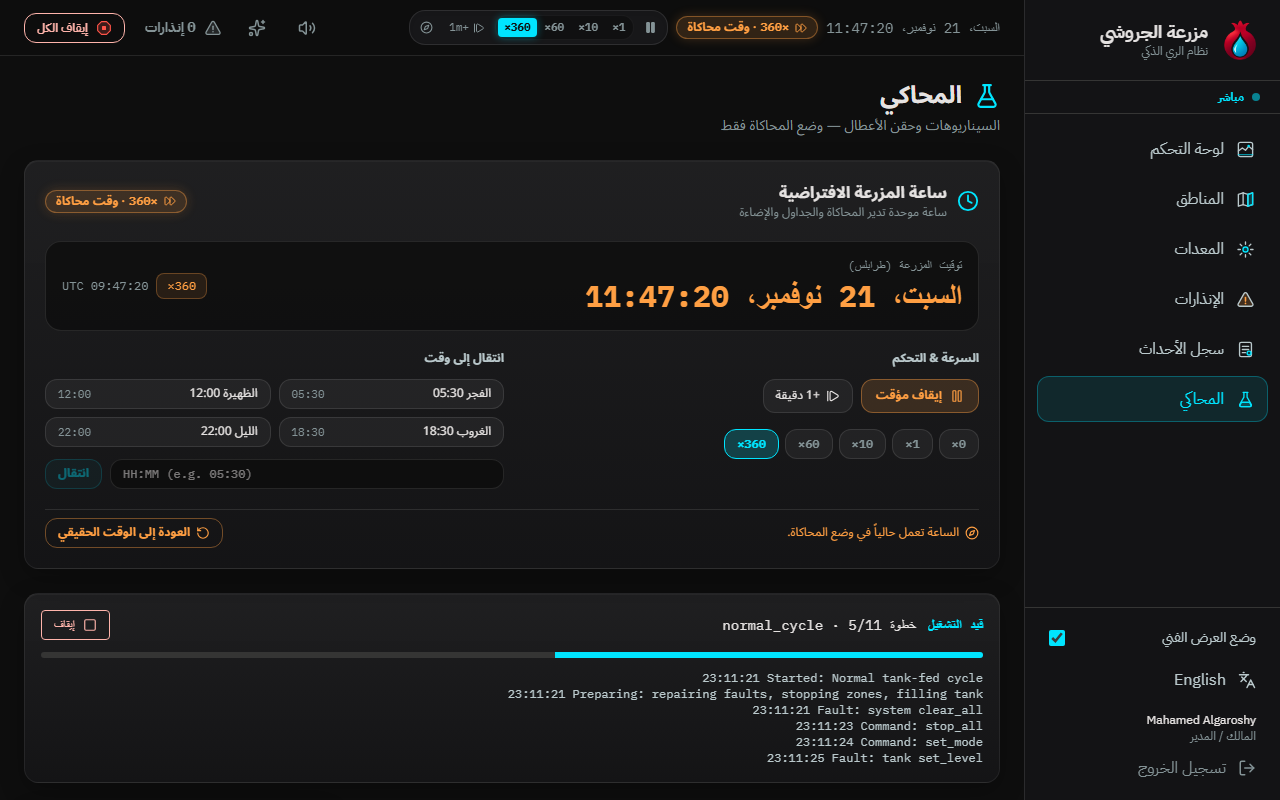
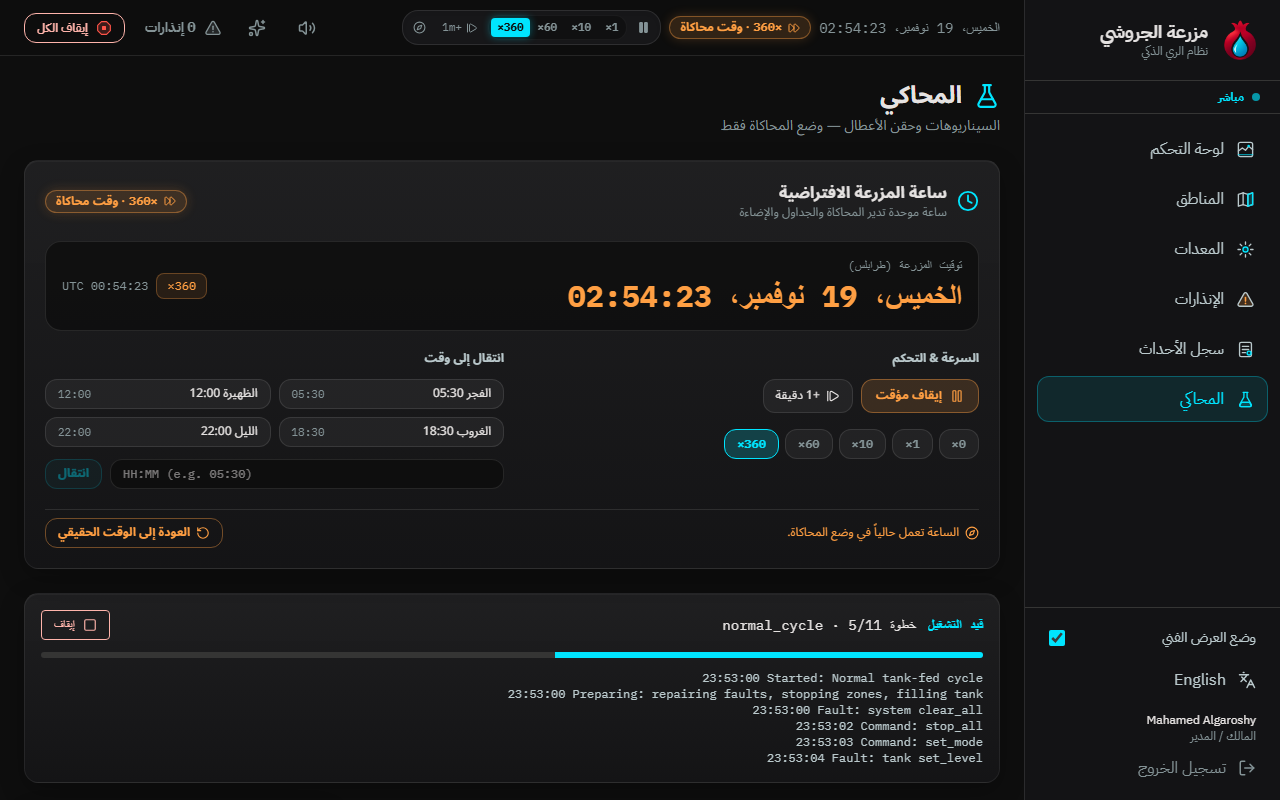
fix(sim-time): resolve service auth, high-speed jumps, date parsing, and guard test gaps

diff --git a/apps/web/src/lib/clock.ts b/apps/web/src/lib/clock.ts
@@ -48,7 +48,10 @@ export const useClockStore = create<ClockStore>((set, get) => ({
     const paused = data.clock_paused !== undefined ? Boolean(data.clock_paused) : Boolean(data.paused);
     let simMs = get().anchorSimMs;
     if (data.farm_now) {
-      const s = data.farm_now.endsWith('Z') ? data.farm_now : `${data.farm_now}Z`;
+      const s =
+        data.farm_now.includes('Z') || /[+-]\d{2}(:\d{2})?$/.test(data.farm_now)
+          ? data.farm_now
+          : `${data.farm_now}Z`;
       const parsed = Date.parse(s);
       if (!Number.isNaN(parsed)) simMs = parsed;
     }

diff --git a/apps/web/src/lib/clock.test.ts b/apps/web/src/lib/clock.test.ts
@@ -32,6 +32,12 @@ describe('virtual farm clock', () => {
     expect(state.paused).toBe(false);
     expect(state.isSimulated).toBe(true);
     expect(new Date(state.anchorSimMs).toISOString()).toBe('2026-11-19T12:00:00.000Z');
+
+    // Test with +00:00 timezone offset (FastAPI output)
+    useClockStore.getState().sync({
+      farm_now: '2026-11-19T14:30:00+00:00',
+    });
+    expect(new Date(useClockStore.getState().anchorSimMs).toISOString()).toBe('2026-11-19T14:30:00.000Z');
   });
 
   it('detects isSimulated if paused or speed != 1', () => {

diff --git a/apps/web/src/store/farm.ts b/apps/web/src/store/farm.ts
@@ -65,6 +65,9 @@ export const useFarmStore = create<FarmStore>((set, get) => {
         state.active_alarms.forEach((al) => seenAlarms.add(al.id));
         primed = true;
       }
+      if (state.farm_now) {
+        useClockStore.getState().sync(state);
+      }
       set({ state, link: get().link === 'live' ? 'live' : 'polling' });
     } catch {
       set({ link: 'offline' });

diff --git a/packages/contracts/src/types.ts b/packages/contracts/src/types.ts
@@ -368,6 +368,7 @@ export interface FarmClockState {
   paused: boolean;
   farm_now: string;
   real_now: string;
+  action?: string;
 }
 
 export interface ClockUpdateRequest {

diff --git a/apps/api/app/routers/sim.py b/apps/api/app/routers/sim.py
@@ -6,7 +6,7 @@ from sqlalchemy.ext.asyncio import AsyncSession
 from app.config import settings
 from app.core.clock import clock
 from app.database import get_db
-from app.deps import Actor, get_actor, require_admin
+from app.deps import Actor, get_actor, require_admin, require_admin_or_service
 from app.schemas.clock import ClockResponse, ClockUpdateRequest
 from app.schemas.command import CommandCreate
 from app.services.commands import _supersede_starts
@@ -30,13 +30,15 @@ async def get_clock(_: Actor = Depends(get_actor)):
 @router.post("/clock", response_model=ClockResponse, dependencies=[Depends(_simulation_only)])
 async def update_clock(
     body: ClockUpdateRequest,
-    actor: Actor = Depends(require_admin),
+    actor: Actor = Depends(require_admin_or_service),
     db: AsyncSession = Depends(get_db),
 ):
     if clock.is_locked_real:
         raise HTTPException(409, "Clock is locked to real time in PLC controller mode")
 
+    action = "speed"
     if body.real is True:
+        action = "reset"
         if not body.confirm:
             raise HTTPException(
                 400,
@@ -56,6 +58,7 @@ async def update_clock(
             actor_id=actor.actor_id,
         )
     elif body.speed is not None:
+        action = "speed"
         old_speed = clock.speed
         clock.set_speed(body.speed)
         await clock.save(db)
@@ -70,6 +73,7 @@ async def update_clock(
         )
     elif body.pause is not None:
         if body.pause:
+            action = "pause"
             clock.pause()
             await clock.save(db)
             await log_event(
@@ -81,6 +85,7 @@ async def update_clock(
                 actor_id=actor.actor_id,
             )
         else:
+            action = "resume"
             clock.resume()
             await clock.save(db)
             await log_event(
@@ -93,6 +98,7 @@ async def update_clock(
                 payload={"speed": clock.speed},
             )
     elif body.step_min is not None:
+        action = "step"
         clock.step(body.step_min)
         await clock.save(db)
         await log_event(
@@ -105,6 +111,7 @@ async def update_clock(
             payload={"step_min": body.step_min, "farm_now": clock.farm_now().isoformat()},
         )
     elif body.jump_to is not None:
+        action = "jump"
         await _supersede_starts(db, CommandCreate(command_type="stop_all", target_type="system"))
         try:
             prev_sim, next_sim = clock.jump_to(body.jump_to)
@@ -127,7 +134,7 @@ async def update_clock(
     else:
         raise HTTPException(422, "No valid clock action supplied in request body")
 
-    res = ClockResponse(**clock.as_dict())
+    res = ClockResponse(**clock.as_dict(), action=action)
     await manager.broadcast("clock.changed", res)
     return res
 

diff --git a/apps/simulator/src/engine.py b/apps/simulator/src/engine.py
@@ -16,6 +16,7 @@ import json
 import math
 import random
 from datetime import timedelta
+from zoneinfo import ZoneInfo
 
 from .faults import FaultInjector
 from .state import AlarmCondition, FarmSimulationState, SimZoneState, utcnow
@@ -470,7 +471,9 @@ class SimulatorEngine:
 
     def _step_environment(self, dt: float) -> None:
         s = self.state
-        local_hour = (self.sim_time.hour + TRIPOLI_UTC_OFFSET_H + self.sim_time.minute / 60) % 24
+        tz = ZoneInfo("Africa/Tripoli")
+        local = self.sim_time.astimezone(tz)
+        local_hour = (local.hour + local.minute / 60.0 + local.second / 3600.0) % 24
         daylight = max(0.0, math.sin(math.pi * (local_hour - 6) / 12))
         dry_rate = 0.3 + 0.9 * daylight  # %/h evapotranspiration
         for zid, z in s.zones.items():
@@ -506,14 +509,22 @@ class SimulatorEngine:
     def jump(self, new_sim_time) -> None:
         """Monotonic jump: stop running zones, apply closed-form environment, log."""
         for zid in list(self.state.zones):
-            if self.state.zones[zid].state in ACTIVE_STATES:
-                self.abort_zone(zid, "clock.jumped", "Zone stopped due to virtual clock jump")
-                self.state.zones[zid].state = "off"
-                self.state.zones[zid].flow_m3h = 0.0
-                self.state.zones[zid].pressure_bar = 0.0
+            z = self.state.zones[zid]
+            if z.state in ACTIVE_STATES:
+                self._finish_cmd(zid, "failed", "Stopped due to virtual clock jump")
+                z.state = "off"
+                z.flow_m3h = 0.0
+                z.pressure_bar = 0.0
+                z.runtime_sec = 0
+                v = self.state.valve_for_zone(zid)
+                if v:
+                    v.status = "closed"
+                    v.last_command = "close"
         for pump in self.state.pumps.values():
             pump.state = "off"
             pump.run_fb = False
+        self.state.system.main_flow_m3h = 0.0
+        self.state.system.main_pressure_bar = 0.0
 
         delta_s = (new_sim_time - self.sim_time).total_seconds()
         if delta_s > 0:

diff --git a/scripts/test_live_check.py b/scripts/test_live_check.py
@@ -87,6 +87,11 @@ with sync_playwright() as p:
     page.goto("http://localhost:5173/")
     page.wait_for_load_state("networkidle")
     page.wait_for_timeout(2500)
+    # Check water tab
+    water_tab = page.locator('button:has-text("مياه اليوم"), button:has-text("Water today")').first
+    if water_tab.is_visible():
+        water_tab.click()
+        page.wait_for_timeout(1000)
     page.screenshot(path=str(SCREENSHOT_DIR / "05_dashboard_at_360x.png"))
     print("Dashboard rendered during high-speed simulation.")
 
@@ -109,6 +114,8 @@ with sync_playwright() as p:
     dawn_btn.click()
     page.wait_for_timeout(2000)
     page.screenshot(path=str(SCREENSHOT_DIR / "07_jumped_to_0530.png"))
+    clock_text = page.locator('span:has-text("05:30")').count()
+    assert clock_text > 0, "Clock must display 05:30 after jump"
     print("Jumped to 05:30. Verified clock display.")
 
     # Check Map at 05:30 Dawn
@@ -136,6 +143,9 @@ with sync_playwright() as p:
     confirm_btn.click()
     page.wait_for_timeout(2500)
     page.screenshot(path=str(SCREENSHOT_DIR / "10_back_to_real_time.png"))
+    # In real time at 1x, the amber simulated time badge must disappear
+    badge = page.locator('span:has-text("360×")')
+    assert badge.count() == 0, "SIMULATED TIME badge must disappear after reset to real time"
     print("Clock returned to real time and history reset successfully.")
 
     browser.close()

diff --git a/apps/api/tests/test_clock_guard.py b/apps/api/tests/test_clock_guard.py
@@ -27,6 +27,9 @@ def test_guard_no_forbidden_utcnow_in_services():
         "live_state.py": [
             "((now or utcnow()) - last).total_seconds() <= settings.state_stale_after_sec",  # link staleness
         ],
+        "realtime.py": [
+            '{"type": event_type, "ts": utcnow().isoformat(), "payload": jsonable_encoder(payload)}',  # real-time WS envelope timestamp
+        ],
         "telemetry.py": [
             "now_real = utcnow()",  # at most 1/s real rate limit
         ],
@@ -41,14 +44,13 @@ def test_guard_no_forbidden_utcnow_in_services():
 
     for path in SERVICES_DIR.glob("*.py"):
         filename = path.name
-        if filename not in allowed_patterns:
-            continue
         content = path.read_text(encoding="utf-8")
         lines = content.splitlines()
+        file_allowed = allowed_patterns.get(filename, [])
         for idx, line in enumerate(lines, start=1):
             stripped = line.strip()
             if "utcnow()" in stripped and not stripped.startswith("#"):
-                allowed = any(p in stripped for p in allowed_patterns[filename])
+                allowed = any(p in stripped for p in file_allowed)
                 assert allowed, (
                     f"Forbidden utcnow() call in {filename}:{idx}:\n"
                     f"  {line}\n"

diff --git a/apps/api/tests/test_farm_clock.py b/apps/api/tests/test_farm_clock.py
@@ -266,3 +266,32 @@ def test_api_clock_endpoints(client):
     assert r.status_code == 200
     assert r.json()["mode"] == "real"
     assert r.json()["speed"] == 1.0
+
+    # 9. POST clock allowed with simulator service token (sets initial timescale)
+    service_headers = {"Authorization": f"Bearer {settings.simulator_token}"}
+    r = client.post("/api/v1/sim/clock", json={"speed": 10}, headers=service_headers)
+    assert r.status_code == 200
+    assert r.json()["speed"] == 10.0
+    assert r.json()["mode"] == "sim"
+
+
+@pytest.mark.asyncio
+async def test_reset_history_resets_clock():
+    from app.models.clock import FarmClockModel
+    from app.reset_demo import reset_history
+
+    clock.set_speed(360.0)
+    async with async_session_factory() as db:
+        await clock.save(db)
+
+    # Call reset_history (same as run.bat reset)
+    await reset_history()
+
+    assert clock.mode == "real"
+    assert clock.speed == 1.0
+    async with async_session_factory() as db:
+        row = (await db.get(FarmClockModel, 1))
+        assert row is not None
+        assert row.mode == "real"
+        assert row.speed == 1.0
+

diff --git a/apps/simulator/src/client.py b/apps/simulator/src/client.py
@@ -66,13 +66,15 @@ class APIClient:
         paused = payload.get("paused")
         if paused is None:
             paused = payload.get("clock_paused", False)
+        action = payload.get("action")
         farm_now_str = payload.get("farm_now")
         if farm_now_str:
             try:
                 s = farm_now_str.replace("Z", "+00:00")
                 dt = datetime.fromisoformat(s)
-                gap = abs((dt - self.engine.sim_time).total_seconds())
-                if gap > 15.0:
+                gap = (dt - self.engine.sim_time).total_seconds()
+                threshold = max(300.0, 5.0 * max(1.0, self.engine.timescale))
+                if action in ("jump", "step") or abs(gap) > threshold:
                     self.engine.jump(dt)
                 else:
                     self.engine.sim_time = dt

diff --git a/apps/api/app/reset_demo.py b/apps/api/app/reset_demo.py
@@ -14,6 +14,7 @@ import asyncio
 
 from sqlalchemy import delete, func, select
 
+from app.core.clock import clock
 from app.database import async_session_factory
 from app.models.alarm import Alarm
 from app.models.command import Command
@@ -35,6 +36,8 @@ async def reset_history() -> dict[str, int]:
             n = (await db.execute(select(func.count()).select_from(model))).scalar_one()
             await db.execute(delete(model))
             removed[model.__tablename__] = n
+        clock.reset_to_real()
+        await clock.save(db)
         await db.commit()
     return removed
 

diff --git a/apps/api/app/services/scenarios.py b/apps/api/app/services/scenarios.py
@@ -305,7 +305,9 @@ class ScenarioRunner:
         return self._task is not None and not self._task.done()
 
     def start(self, name: str) -> RunState:
-        scenario = SCENARIOS.get(name)
+        scenario = SCENARIOS.get(name) or (
+            SCENARIOS.get("normal_cycle") if name == "normal_day" else None
+        )
         if not scenario:
             raise HTTPException(404, f"Unknown scenario '{name}'")
         if self.busy:
